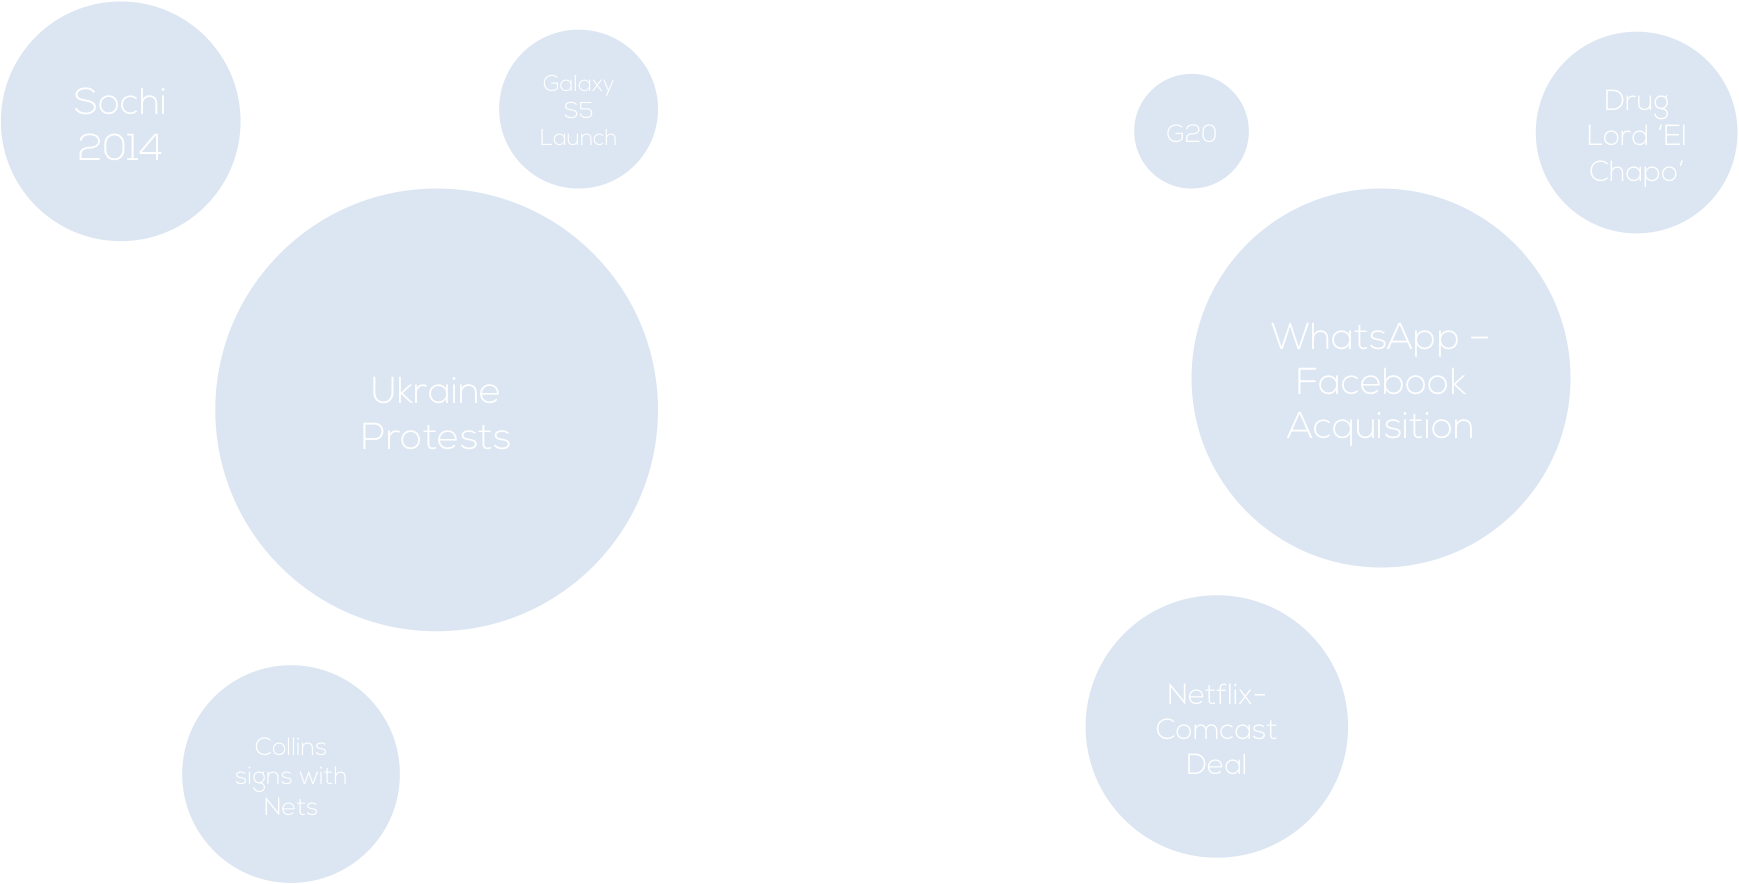
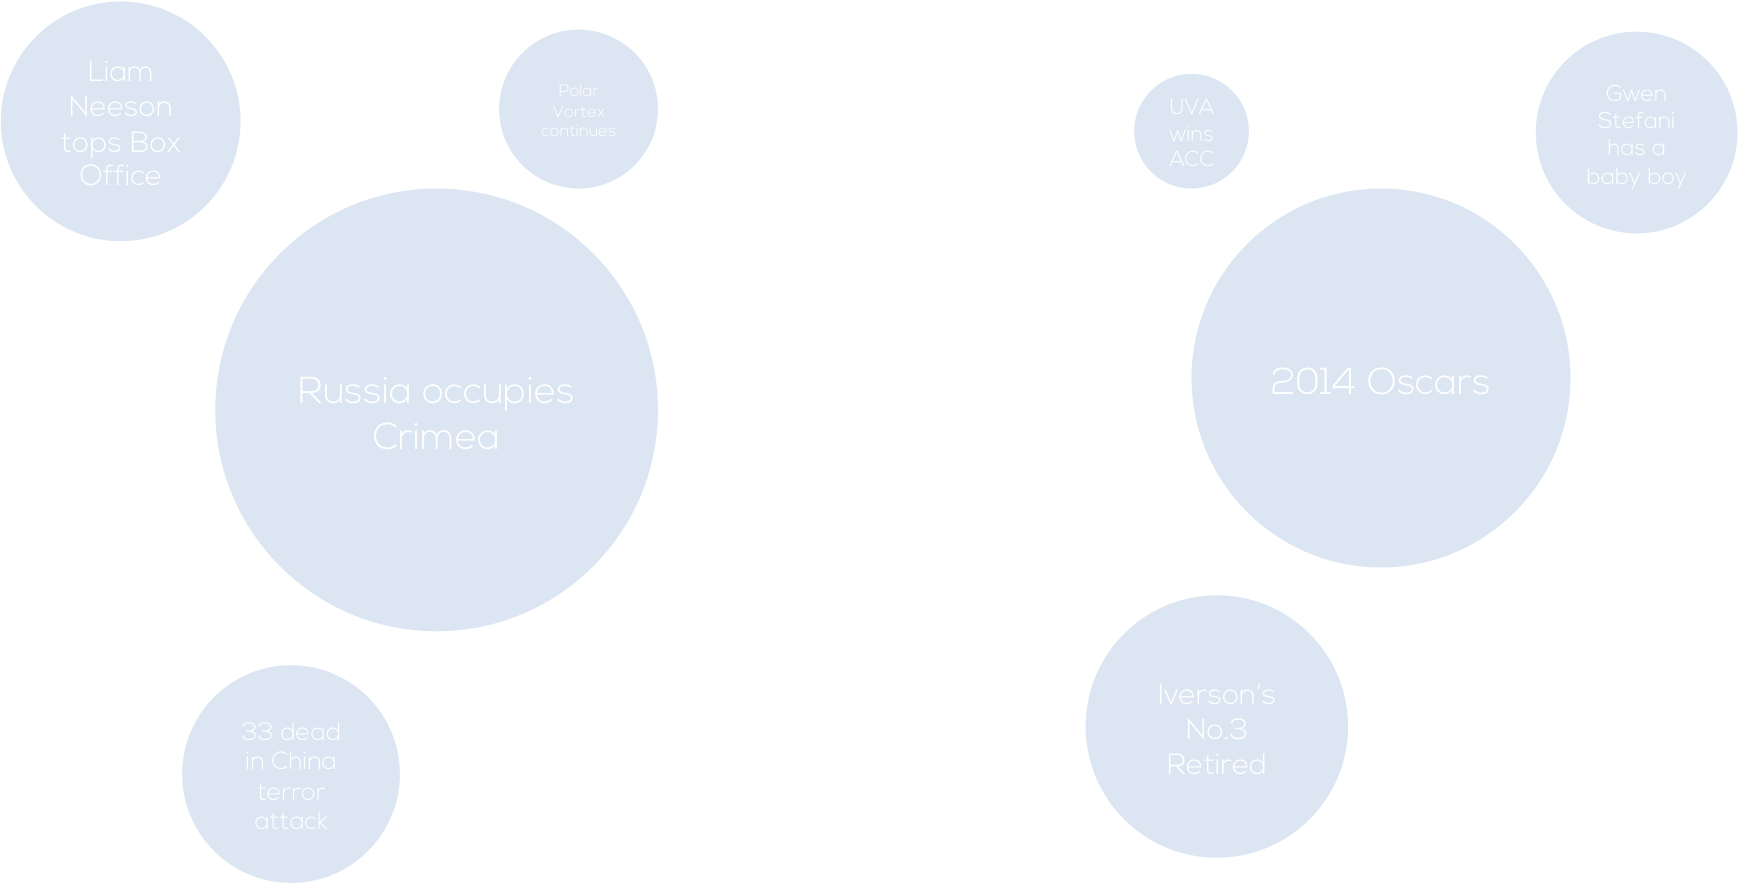
new pic

diff --git a/app/assets/stylesheets/topics.css.scss b/app/assets/stylesheets/topics.css.scss
@@ -1,3 +1,12 @@
 // Place all the styles related to the topics controller here.
 // They will automatically be included in application.css.
 // You can use Sass (SCSS) here: http://sass-lang.com/
+
+div.circle {
+	background: #EEE;
+	width: 200px;
+	border-radius: 50%;
+	padding: 90px 0px;
+	font-size: 12px;
+	font-family: 'Nexa Light'
+}

diff --git a/config/routes.rb b/config/routes.rb
@@ -19,8 +19,9 @@ Debate::Application.routes.draw do
 
   resources :users
 
+  get '/home', to: "topics#map"
 
-   root :to => 'static_pages#home'
+  root :to => 'static_pages#home'
 
   # The priority is based upon order of creation:
   # first created -> highest priority.

diff --git a/app/controllers/topics_controller.rb b/app/controllers/topics_controller.rb
@@ -1,2 +1,6 @@
 class TopicsController < ApplicationController
+
+	def map
+	end
+
 end
